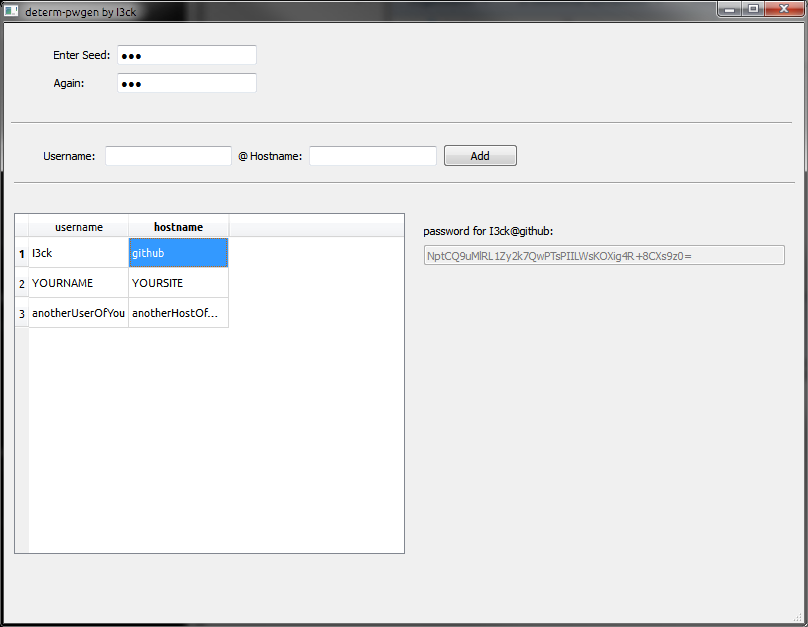
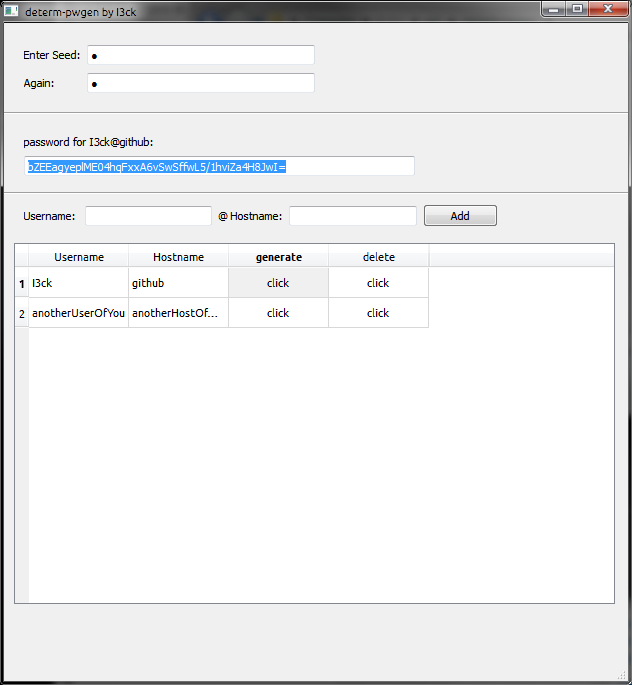
updated screenshots to show new interface (cli now without screenshots, but with code copy&pase

diff --git a/README.md b/README.md
@@ -13,8 +13,50 @@ no, I didn't use my seed there ;)
 
 The cli
 -------
-![alt tag](https://raw.githubusercontent.com/I3ck/determ-pwgen/master/img/cli-example-1.png)  
-![alt tag](https://raw.githubusercontent.com/I3ck/determ-pwgen/master/img/cli-example-2.png)  
+```
+ ___________________________________________________________________
+| determ-pwgen created by I3ck (Martin Buck)                        |
+| https://github.com/I3ck/determ-pwgen                              |
+| licensed under the MIT License (see LICENSE file)                 |
+| use determ-pwgen-qt.pyw for a graphical user interface            |
+|___________________________________________________________________|
+
+
+Enter the following:
+
+password:
+```
+after entering your password, hostname and username:  
+```
+ ___________________________________________________________________
+| determ-pwgen created by I3ck (Martin Buck)                        |
+| https://github.com/I3ck/determ-pwgen                              |
+| licensed under the MIT License (see LICENSE file)                 |
+| use determ-pwgen-qt.pyw for a graphical user interface            |
+|___________________________________________________________________|
+
+
+Enter the following:
+
+password:
+Re-enter password:
+
+Main Menu:
+
+1. Input host and usernames by hand.
+2. Use accounts.json
+Make a selection: 1
+
+
+Please enter the domain or name of the program (e.g. google or outlook): github
+Please enter your username for github: I3ck
+
+I3ck @ github:
+bZEEagyeplME04hqFxxA6vSwSffwL5/1hviZa4H8JwI=
+
+
+Please enter the domain or name of the program (e.g. google or outlook):
+```
 no, I didn't use my seed there ;)  
 
 
